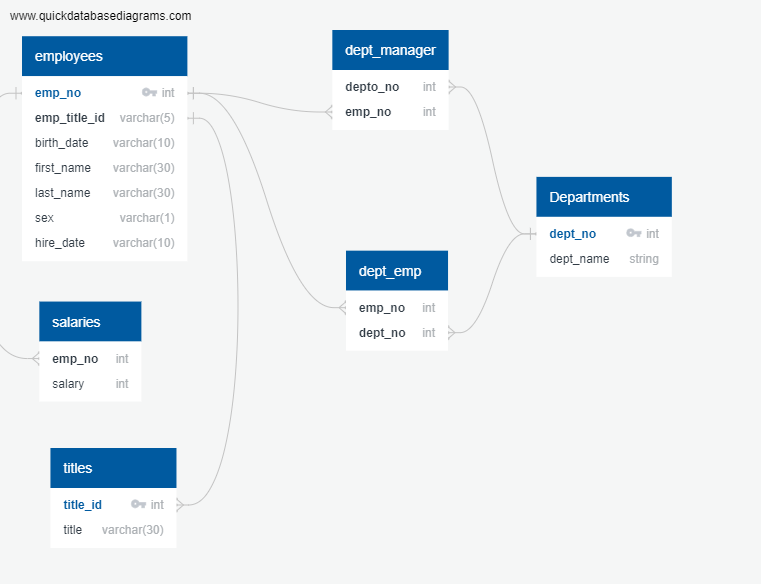
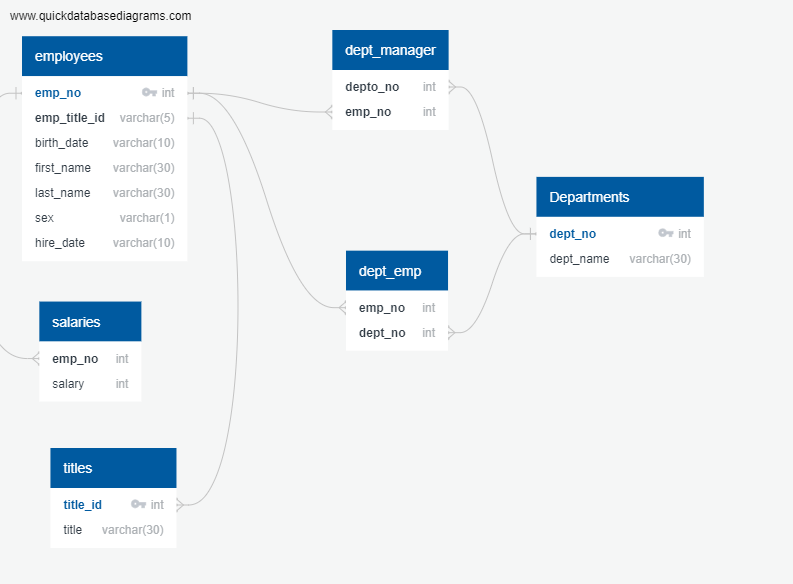
Fixes ERD typo

diff --git a/changelog.md b/changelog.md
@@ -7,4 +7,4 @@
 - Created [readme.md](readme.md) and [changelog.md](changelog.md)
 - Created ERD on [QuickDBD](https://app.quickdatabasediagrams.com/#/d/8M7zq1) and saved as [PDF](resources/erd.pdf) and [PNG](resources/erd.png)
 - Created all tables [table_creation.sql](queries/table_creation.sql)
-    - [] Fix data type on ERD departments table
+    - [X] Fix data type on ERD departments table
